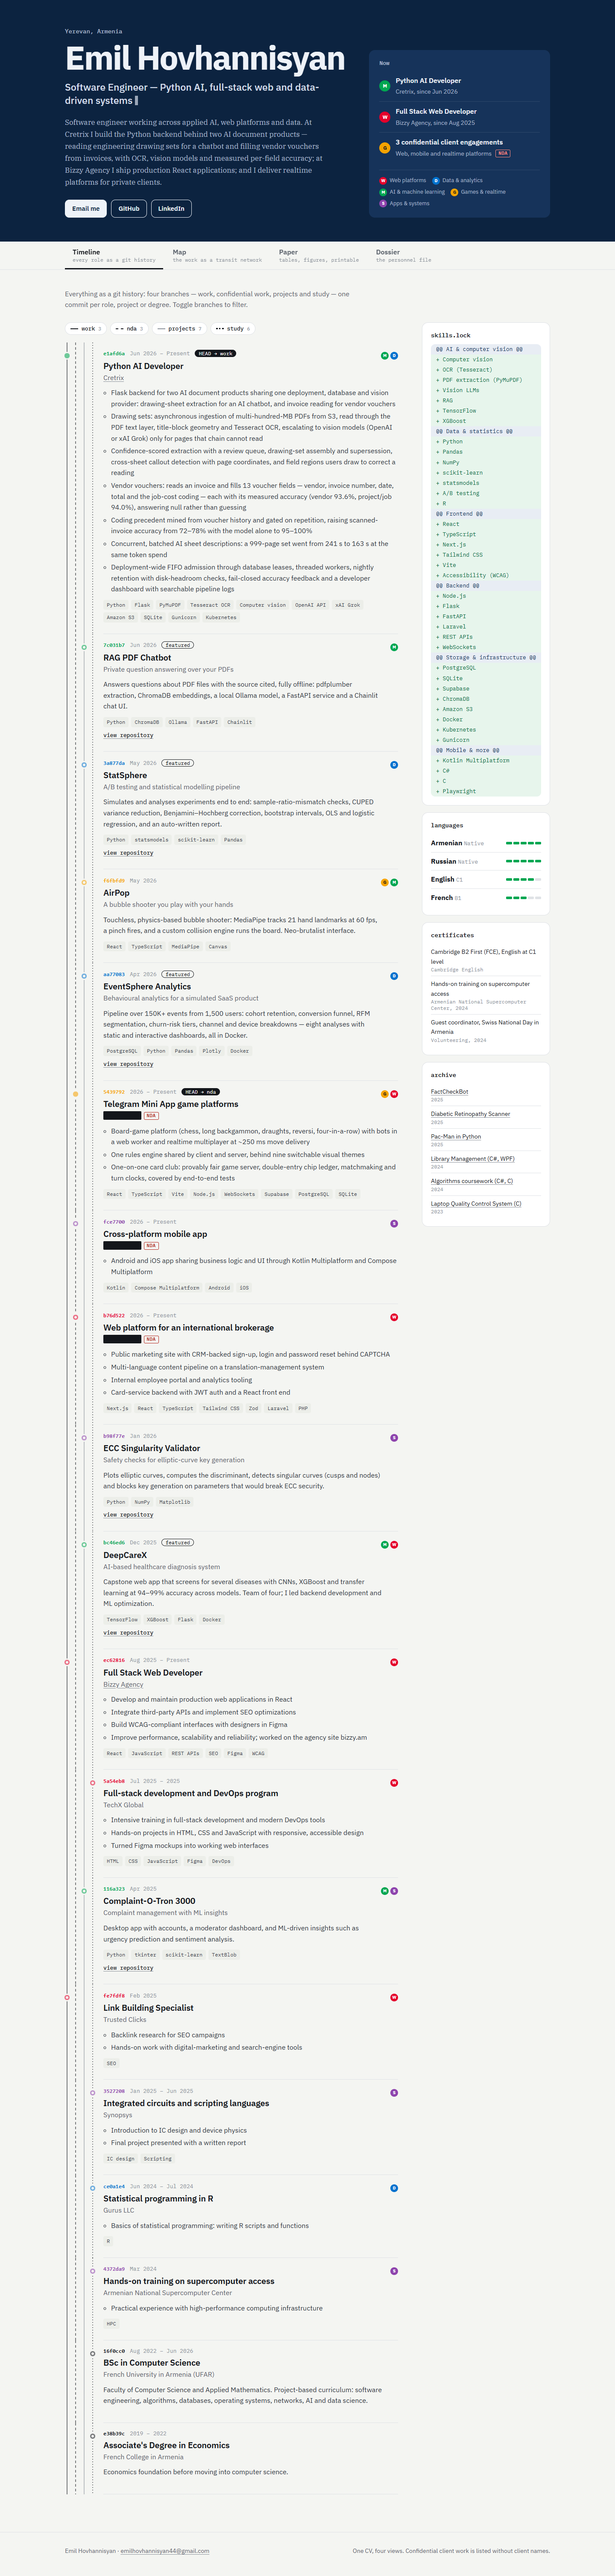
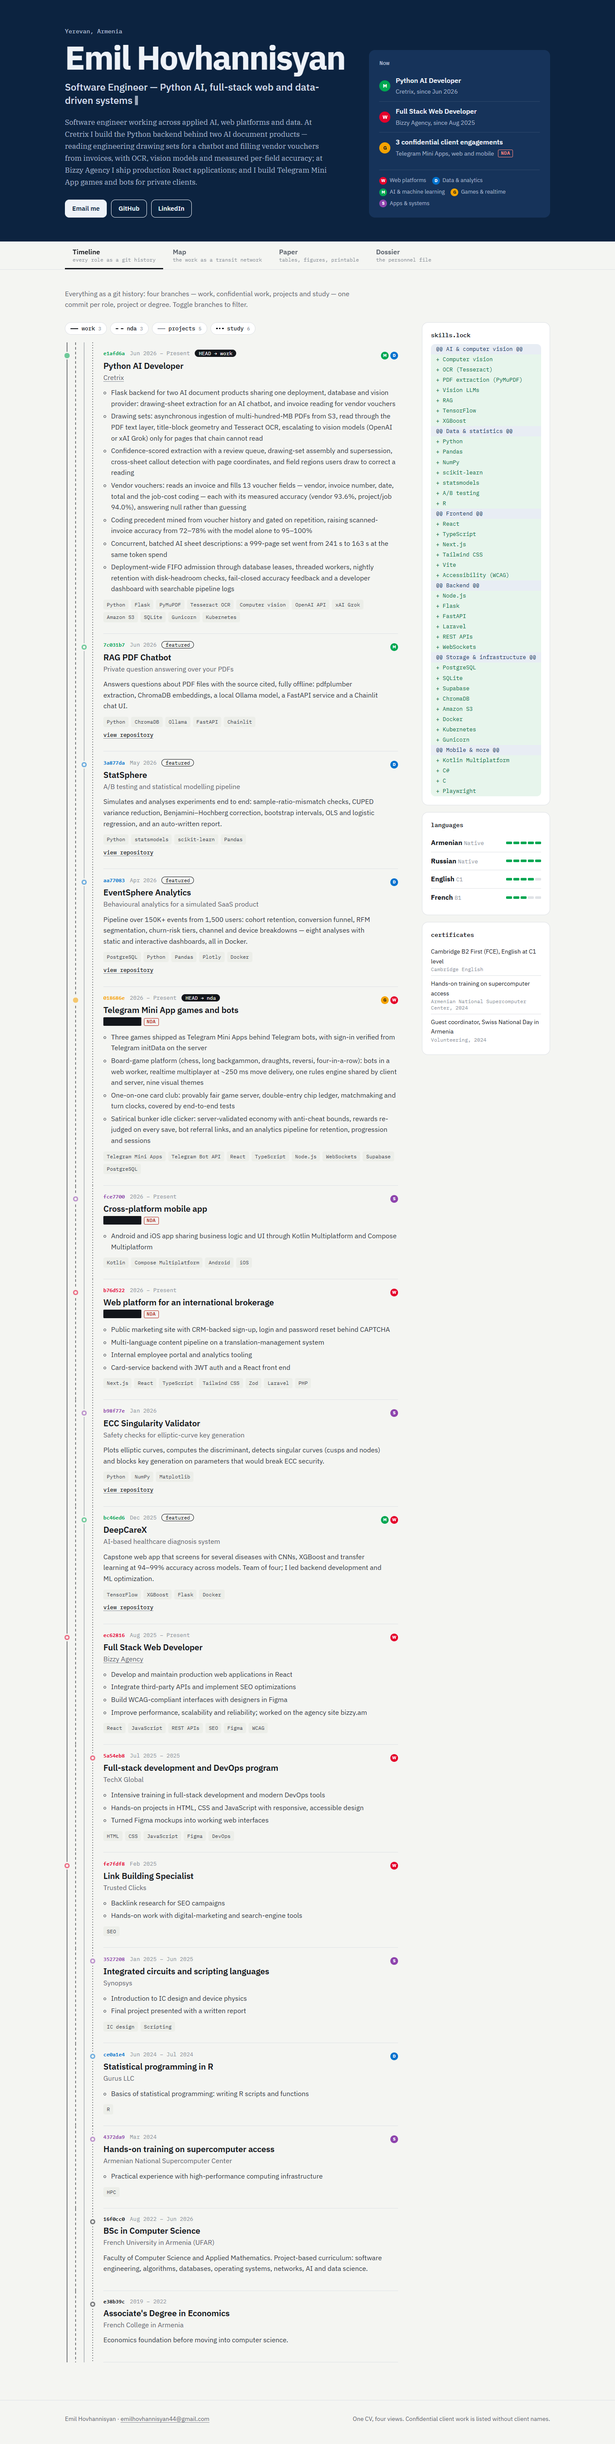
Drop hobby and coursework projects; describe the Telegram Mini App games and bots

diff --git a/content.js b/content.js
@@ -11,7 +11,7 @@ window.CV = {
     linkedin: 'https://www.linkedin.com/in/emil-hovhannisyan-30735124b',
   },
   summary:
-    'Software engineer working across applied AI, web platforms and data. At Cretrix I build the Python backend behind two AI document products — reading engineering drawing sets for a chatbot and filling vendor vouchers from invoices, with OCR, vision models and measured per-field accuracy; at Bizzy Agency I ship production React applications; and I deliver realtime platforms for private clients.',
+    'Software engineer working across applied AI, web platforms and data. At Cretrix I build the Python backend behind two AI document products — reading engineering drawing sets for a chatbot and filling vendor vouchers from invoices, with OCR, vision models and measured per-field accuracy; at Bizzy Agency I ship production React applications; and I build Telegram Mini App games and bots for private clients.',
 
   // current roles and engagements
   experience: [
@@ -39,16 +39,17 @@ window.CV = {
     {
       id: 'nda-games',
       kind: 'nda',
-      title: 'Telegram Mini App game platforms',
+      title: 'Telegram Mini App games and bots',
       org: 'Confidential client',
       start: '2026',
       end: null,
       points: [
-        'Board-game platform (chess, long backgammon, draughts, reversi, four-in-a-row) with bots in a web worker and realtime multiplayer at ~250 ms move delivery',
-        'One rules engine shared by client and server, behind nine switchable visual themes',
+        'Three games shipped as Telegram Mini Apps behind Telegram bots, with sign-in verified from Telegram initData on the server',
+        'Board-game platform (chess, long backgammon, draughts, reversi, four-in-a-row): bots in a web worker, realtime multiplayer at ~250 ms move delivery, one rules engine shared by client and server, nine visual themes',
         'One-on-one card club: provably fair game server, double-entry chip ledger, matchmaking and turn clocks, covered by end-to-end tests',
+        'Satirical bunker idle clicker: server-validated economy with anti-cheat bounds, rewards re-judged on every save, bot referral links, and an analytics pipeline for retention, progression and sessions',
       ],
-      stack: ['React', 'TypeScript', 'Vite', 'Node.js', 'WebSockets', 'Supabase', 'PostgreSQL', 'SQLite'],
+      stack: ['Telegram Mini Apps', 'Telegram Bot API', 'React', 'TypeScript', 'Node.js', 'WebSockets', 'Supabase', 'PostgreSQL'],
       domains: ['games', 'web'],
     },
     {
@@ -210,16 +211,6 @@ window.CV = {
       featured: true,
     },
     {
-      id: 'airpop',
-      name: 'AirPop',
-      date: '2026-05',
-      tagline: 'A bubble shooter you play with your hands',
-      text: 'Touchless, physics-based bubble shooter: MediaPipe tracks 21 hand landmarks at 60 fps, a pinch fires, and a custom collision engine runs the board. Neo-brutalist interface.',
-      stack: ['React', 'TypeScript', 'MediaPipe', 'Canvas'],
-      url: null,
-      domains: ['games', 'ml'],
-    },
-    {
       id: 'eventsphere',
       name: 'EventSphere Analytics',
       date: '2026-04',
@@ -251,26 +242,10 @@ window.CV = {
       domains: ['ml', 'web'],
       featured: true,
     },
-    {
-      id: 'complaint',
-      name: 'Complaint-O-Tron 3000',
-      date: '2025-04',
-      tagline: 'Complaint management with ML insights',
-      text: 'Desktop app with accounts, a moderator dashboard, and ML-driven insights such as urgency prediction and sentiment analysis.',
-      stack: ['Python', 'tkinter', 'scikit-learn', 'TextBlob'],
-      url: 'https://github.com/emilhovh/Complaint-O-Tron-3000',
-      domains: ['ml', 'systems'],
-    },
   ],
 
-  archive: [
-    { name: 'FactCheckBot', year: 2025, url: 'https://github.com/emilhovh/FactCheckBot' },
-    { name: 'Diabetic Retinopathy Scanner', year: 2025, url: 'https://github.com/emilhovh/Diabetic-Retinopathy-Scanner' },
-    { name: 'Pac-Man in Python', year: 2025, url: 'https://github.com/emilhovh/Pac-Man' },
-    { name: 'Library Management (C#, WPF)', year: 2024, url: 'https://github.com/emilhovh/Library-Management' },
-    { name: 'Algorithms coursework (C#, C)', year: 2024, url: 'https://github.com/emilhovh/Algorithms_and_Pr_langs' },
-    { name: 'Laptop Quality Control System (C)', year: 2023, url: 'https://github.com/emilhovh/Project-S1' },
-  ],
+  // older, smaller repositories worth linking; empty means the section is not shown
+  archive: [],
 
   skills: [
     { group: 'AI & computer vision', items: ['Computer vision', 'OCR (Tesseract)', 'PDF extraction (PyMuPDF)', 'Vision LLMs', 'RAG', 'TensorFlow', 'XGBoost'] },

diff --git a/assets/app.js b/assets/app.js
@@ -70,7 +70,7 @@
           <h2 id="now-title">Now</h2>
           <ul class="now-list">
             ${currentWork.map((r) => `<li>${badge(r.domains[0])}<div><b>${esc(r.title)}</b><span class="org">${esc(r.org)}, since ${month(r.start)}</span></div></li>`).join('')}
-            <li>${badge('games')}<div><b>${ndaCount} confidential client engagements</b><span class="org">Web, mobile and realtime platforms <span class="nda-tag">NDA</span></span></div></li>
+            <li>${badge('games')}<div><b>${ndaCount} confidential client engagements</b><span class="org">Telegram Mini Apps, web and mobile <span class="nda-tag">NDA</span></span></div></li>
           </ul>
           <ul class="legend" aria-label="Colour key for areas of work">
             ${DOMAINS.map((d) => `<li>${badge(d, 'badge--sm')}${esc(cv.domains[d])}</li>`).join('')}
@@ -156,9 +156,9 @@
           <section class="aside-block" aria-labelledby="t-certs"><h2 id="t-certs">certificates</h2>
             <ul class="plain-list">${cv.certificates.map((c) => `<li>${esc(c.name)}<small>${esc(c.org)}${c.year ? `, ${c.year}` : ''}</small></li>`).join('')}</ul>
           </section>
-          <section class="aside-block" aria-labelledby="t-archive"><h2 id="t-archive">archive</h2>
+          ${cv.archive.length ? `<section class="aside-block" aria-labelledby="t-archive"><h2 id="t-archive">archive</h2>
             <ul class="plain-list">${cv.archive.map((a) => `<li><a href="${a.url}" rel="noopener">${esc(a.name)}</a><small>${a.year}</small></li>`).join('')}</ul>
-          </section>
+          </section>` : ''}
         </aside>
       </div>`
   }
